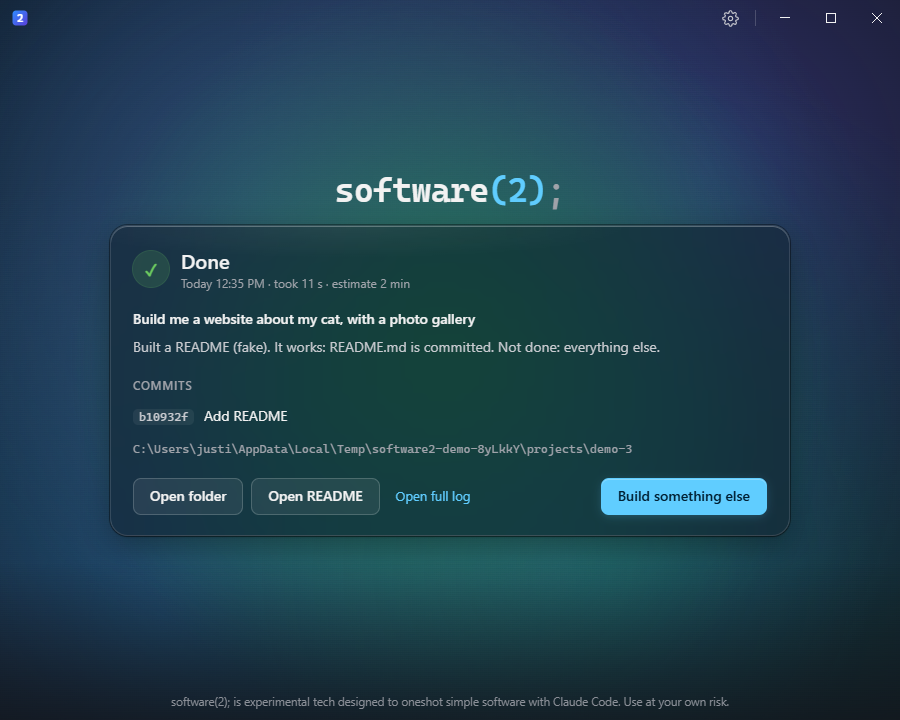
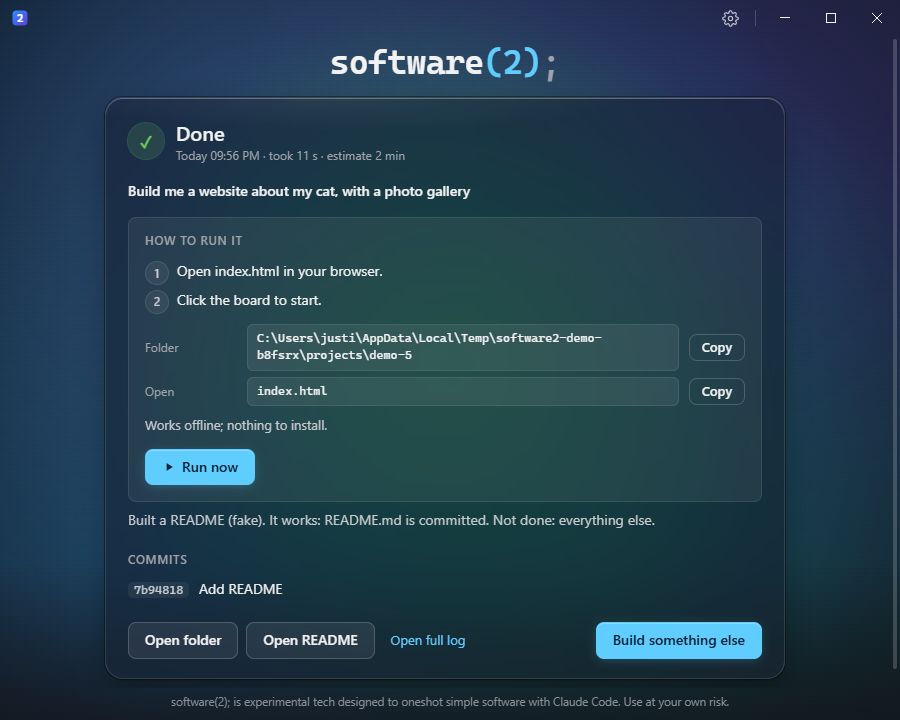
Demo shots of How to run it (page, command, README only) and the Run now sheet; README

Changed region(s): [[0.0933, 0.0611, 0.9022, 0.9167], [0.9644, 0.0611, 1.0, 0.9167], [0.4356, 0.8861, 0.5289, 0.9167]]

diff --git a/src/main/demo.ts b/src/main/demo.ts
@@ -8,7 +8,8 @@
 //                           the idle CPU use to <dir>\cpu-idle.txt, then quit.
 //   SOFTWARE2_THEME=light|dark   force a theme (otherwise Windows' setting).
 // The fake CLI's FAKE_CLAUDE_DELAY_MS defaults to 1500 here, so each state stays up long
-// enough to see.
+// enough to see, and FAKE_CLAUDE_RUN to static (a page to open). Run now never runs a
+// command in demo mode (main.ts).
 
 import { app, nativeTheme, type BrowserWindow, type ProcessMetric } from 'electron';
 import { chmodSync, mkdirSync, mkdtempSync, readdirSync, rmSync, writeFileSync } from 'node:fs';
@@ -39,6 +40,8 @@ export function setupDemo(): void {
   const data = path.join(root, 'data');
   app.setPath('userData', data);
   process.env.FAKE_CLAUDE_DELAY_MS ??= '1500';
+  // A build that leaves a RUN.json for a page to open, so the card has "How to run it".
+  process.env.FAKE_CLAUDE_RUN ??= 'static';
   // Shots mode measures idle CPU with the background running, even if other windows
   // cover this one (Chromium would otherwise count it as hidden and pause it).
   if (shotsDir) app.commandLine.appendSwitch('disable-features', 'CalculateNativeWinOcclusion');
@@ -168,6 +171,33 @@ export async function takeShots(win: BrowserWindow): Promise<void> {
         2000,
       );
       await shot('again');
+
+      // "How to run it" for an app started by a command, its Run now confirm (cancelled:
+      // nothing runs), and a build with only the README's "How to run" section.
+      const quick = async (run: string, what: string) => {
+        process.env.FAKE_CLAUDE_RUN = run;
+        process.env.FAKE_CLAUDE_DELAY_MS = '100';
+        await js(`document.getElementById('request').value = ${JSON.stringify(what)}`);
+        await click('#go');
+        await until(`document.getElementById('confirm-dialog').open`);
+        await click('#confirm-dialog button[value="build"]');
+        await until(`!document.getElementById('result').hidden`);
+        await sleep(800);
+      };
+      await quick('command', 'a block-building game for the browser');
+      await shot('done-command');
+      await click('#run-now');
+      await until(`document.getElementById('run-dialog').open`);
+      await shot('run-confirm');
+      escape();
+      await until(`!document.getElementById('run-dialog').open`, 2000);
+      await click('#result-close');
+      await quick('readme', 'a markdown previewer');
+      await shot('done-readme');
+      process.env.FAKE_CLAUDE_RUN = 'static';
+      process.env.FAKE_CLAUDE_DELAY_MS = '1500';
+      await click('#result-close');
+      await until(`!document.getElementById('request-form').hidden`, 2000);
       await js(`document.getElementById('request').value = 'a CSV to JSON converter for the command line'`);
       await click('#go');
       await until(`document.getElementById('confirm-dialog').open`);

diff --git a/src/renderer/renderer.ts b/src/renderer/renderer.ts
@@ -674,7 +674,7 @@ function showHowToRun(entry: BuildOutcome): void {
   $('run-now').hidden = !spec;
   $('run-now').title = spec?.kind === 'static' ? `Open ${spec.open} in your browser` : 'Run it in a new terminal window';
   $<HTMLButtonElement>('run-now').disabled = false;
-  $('howto-readme-open').hidden = !!spec || !entry.hasReadme;
+  $('howto-readme-open').hidden = how.source !== 'none' || !entry.hasReadme;
 }
 
 /** "There is no RUN.json." -> "there is no RUN.json", to go in brackets. */

diff --git a/README.md b/README.md
@@ -73,6 +73,9 @@ The shortcut runs `scripts\launch.vbs` through `wscript.exe`, which runs
    **Open README**, **Open full log** (to see what went wrong in a failed run) and
    **Build something else**, which brings the box back, empty, with Advanced reset.
    There is no history of past builds: their folders stay where you put them.
+6. A build that is done also gets **How to run it** at the top of the card (see "Run
+   what was built" below): a few numbered steps, the folder, the command or file with
+   **Copy** buttons, and **Run now**.
 
 The window follows the Windows light or dark theme. Its cards are frosted glass over a
 slowly drifting colour background that reacts to what is going on: calm when idle,
@@ -95,6 +98,49 @@ The window has its own slim title bar (drag it, double-click to maximise, snap w
 | Result (dark theme) | A failed build |
 | --- | --- |
 | ![A finished build](docs/screenshots/dark-done.png) | ![A failed build, with Open full log](docs/screenshots/light-failed.png) |
+
+## Run what was built
+
+The build prompt asks Claude to finish by writing `RUN.json` in the project root (and a
+"How to run" section in the README):
+
+```
+{ "kind": "static", "open": "dist/index.html", "steps": ["Open dist/index.html."], "notes": "" }
+{ "kind": "command", "install": "npm install", "command": "npm run dev",
+  "url": "http://localhost:5173", "steps": ["..."], "notes": "" }
+```
+
+When a build is done, the card shows **How to run it** from that file: the steps as a
+numbered list, the folder, the file to open or the install and run commands (each with
+**Copy**), and Claude's notes. If `RUN.json` is missing or broken, it shows the README's
+"How to run" section instead (headings like "How to run", "Getting started" or "Usage"),
+and says why; if that is missing too, it says so plainly and offers **Open README**.
+`RUN.json` is checked first: the file to open must be inside the project folder and
+exist, each command must be one line, and the url must be on this PC (`localhost`).
+
+**Run now**, only when `RUN.json` is good:
+
+- **static**: opens the file with Windows' default app for it (your browser for `.html`).
+- **command**: the first time for a project, a small sheet shows exactly what will run
+  and where ("Run this in my-game?"). Then a new terminal window opens in the project
+  folder and runs the install (only if `node_modules` is missing, for npm, pnpm, yarn
+  and bun; other installs always run) and then the command, showing each one as it runs.
+  Close the window to stop the app. If there is a url, it opens in your browser as soon
+  as it answers (within 30 s, or 5 min when an install runs first); otherwise the card
+  says it did not answer. The same commands for the same project then run without
+  asking again until the app is closed; changed commands are asked about again.
+
+Nothing is ever run that is not in `RUN.json`, and nothing runs hidden. The terminal
+window runs a small batch file the app writes to `%APPDATA%\software2\run` (removed
+after a day). Demo mode never runs a command.
+
+| How to run it: a page to open | How to run it: a command (dark theme) |
+| --- | --- |
+| ![The result card with steps, the file to open and Run now](docs/screenshots/light-done.png) | ![The result card with npm install, npm run dev and the address](docs/screenshots/dark-done-command.png) |
+
+| Run now, the first time | Only the README says how (dark theme) |
+| --- | --- |
+| ![Run this in demo-2? with the exact commands](docs/screenshots/light-run-confirm.png) | ![The README's How to run section on the card](docs/screenshots/dark-done-readme.png) |
 
 ## About "build without asking permission"
 
@@ -132,7 +178,8 @@ to work around it. Some builds will not finish that way.
    `--permission-mode acceptEdits --allowedTools "Bash(npm *)" ...` (see above). The
    prompt goes in through stdin and comes from `prompts/build.md`: the request word for
    word, the design direction, the files in `assets`, the estimate as a plan, and the rules (only this folder, no questions, commit
-   after each step, a README, run the tests, end with a summary). Edit that file to
+   after each step, a README with "How to run", run the tests, write `RUN.json`, end
+   with a summary). Edit that file to
    change what Claude is told; it is read at every build.
 5. **Status line**: one sentence for what Claude is doing now, taken from the stream:
    tool calls become "Writing src/app.js", "Editing ...", "Reading ...",
@@ -143,7 +190,8 @@ to work around it. Some builds will not finish that way.
 6. **Full log**: everything (Claude's text, each tool call as one line, the first lines
    of each result, stderr) goes to a file per run, `%APPDATA%\software2\logs\run-*.log`
    (the last 100 runs), opened with **Open full log** on the result card.
-7. **Result**: done, stopped, failed or timed out, shown on the result card. It is not
+7. **Result**: done, stopped, failed or timed out, shown on the result card, with
+   "How to run it" from `RUN.json` when it is done. It is not
    saved anywhere else (an old `history.json` from earlier versions is left alone and
    no longer read).
 
@@ -176,7 +224,8 @@ Off by default. `SOFTWARE2_DEMO=1` runs the window against `test/fake-claude.mjs
 a throwaway data folder in `%TEMP%\software2-demo-*` (your real settings are not
 touched) and no folder dialog. `SOFTWARE2_SHOTS=<folder>` also walks through every
 state (empty, the Advanced panel with three made-up sample files, open and closed,
-estimating, confirm, building, done, Settings, a failed build, the smallest window,
+estimating, confirm, building, done with a page to open, done with a command and its Run
+now sheet, done with only a README, Settings, a failed build, the smallest window,
 reduced motion) in light and dark, saves a PNG of each into that folder, writes
 the idle CPU use (window shown, minimised, reduced motion) to `cpu-idle.txt` there and
 quits. Page errors and warnings are printed in the terminal. In Git Bash, after `npm run build`:
@@ -212,6 +261,7 @@ src/main/advanced.ts    Advanced: run time, design style, files (checks, copy in
 src/main/estimate.ts    the estimate run and parsing its JSON reply
 src/main/project.ts     the empty-folder check and git init
 src/main/build.ts       runBuild(): the build run, its flags and its prompt
+src/main/howtorun.ts    RUN.json, the README fallback, and Run now
 src/main/stream.ts      stream-json lines -> readable log lines and the status-line sentence
 src/main/runlog.ts      the full log file per run (userData\logs)
 src/main/demo.ts        demo mode and the screenshot walk-through (off by default)
